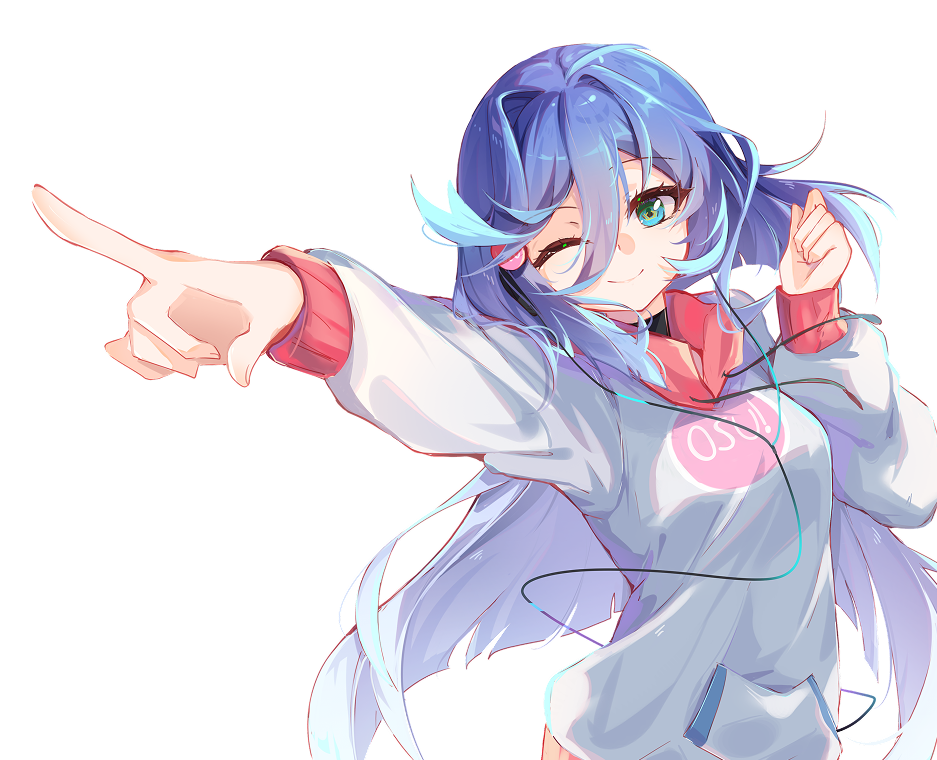
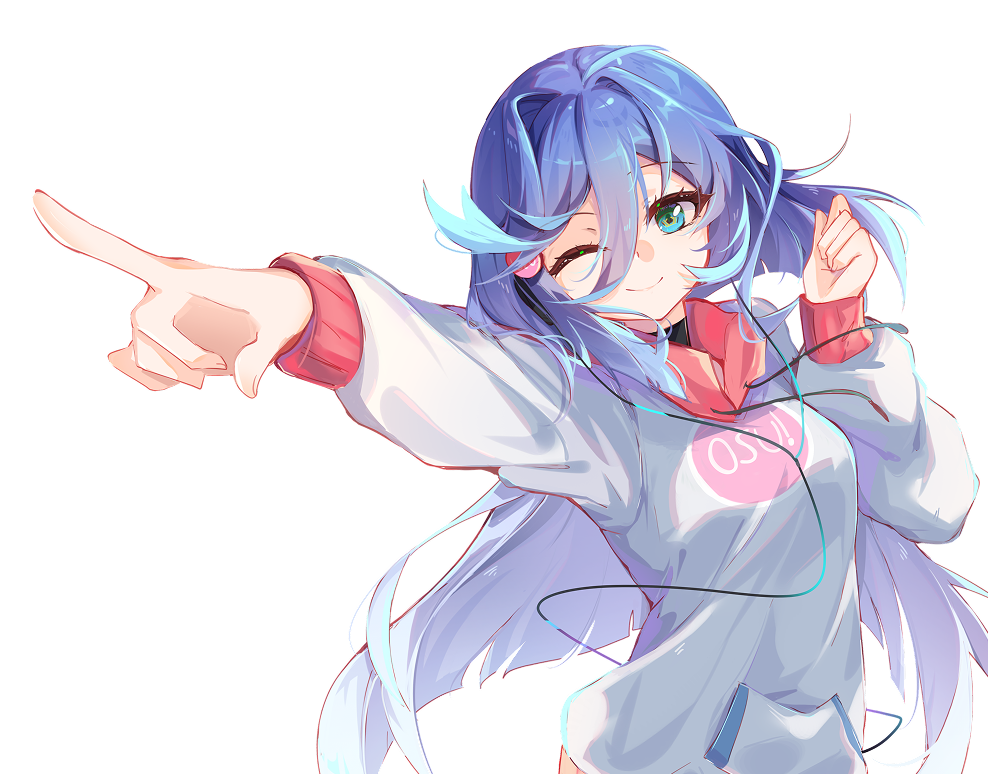
fix: Stesha MainPage №4

Changed region(s): [[0.0928, 0.0605, 1.0, 1.0], [0.0309, 0.2421, 0.1238, 0.3329], [0.4333, 0.9987, 0.4642, 1.0]]

diff --git a/src/pages/Home/HomePage.jsx b/src/pages/Home/HomePage.jsx
@@ -10,7 +10,7 @@ const HomePage = () => {
         <img src={OsuButton} alt="Запись" />
       </a>
       <div className="registration-right">
-        <img className="registration-stesha" src={Stesha} alt="Маскот" />
+        <img className="registration-stesha" src={Stesha} alt="Маскот" width={1042}/>
       </div>
     </section>
   );
